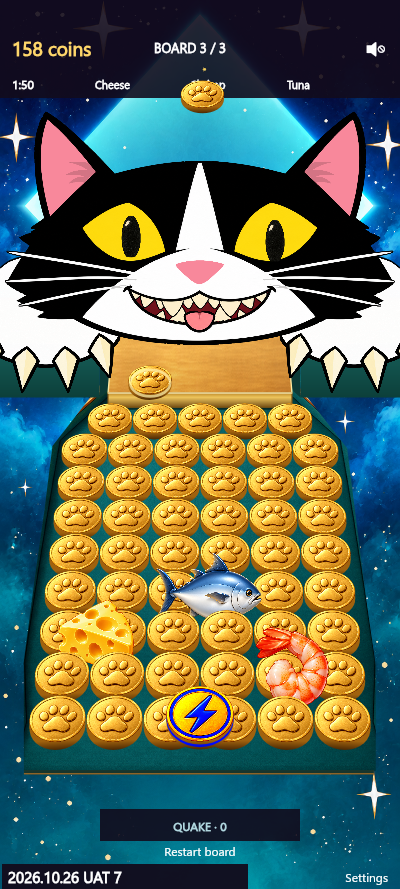
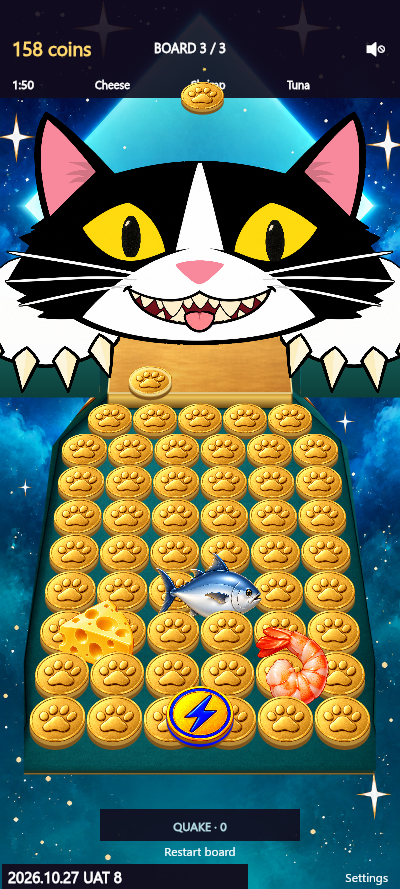
CP-21: UAT 8 - solid coins
Physics coins are now as thick as they are drawn (same weight), so dropped coins push and stack instead of sinking into or passing through other coins. Boards get easier; allowances to be tuned after phone UAT.

diff --git a/index.html b/index.html
@@ -56,7 +56,7 @@ function tableHalfAt(y){const hw=(T.R-T.L)/2;return y<=FUNNEL_D1?FUNNEL_BACK:y>=
 const PUSH_HALF=FUNNEL_BACK, LEDGE_BACK=190;
 let PUSH_MIN = 190, PUSH_MAX = 260, PUSH_PERIOD = 3.2;
 const COIN_R = 26, LUCKY_R = 28, ITEM_R = 30; // big coins: more action per coin, and fewer for the phone to simulate
-const COIN_HALF = 2, LUCKY_HALF = 3.5, ITEM_HALF = 9; // half thicknesses
+const COIN_HALF = 4, LUCKY_HALF = 3.5, ITEM_HALF = 9; // half thicknesses
 // CP-21: coin side colours, bottom to just under the face (silver coins share the gold sides).
 const RIM={coin:[[74,40,4],[160,98,14]]};RIM.silver=RIM.coin; // silver coins use the gold face art, so the gold side too
 function __rimColour(kind,t){const [a,b]=RIM[kind];return 'rgb('+a.map((v,i)=>Math.round(v+(b[i]-v)*t)).join(',')+')';}
@@ -64,7 +64,7 @@ function __rimColour(kind,t){const [a,b]=RIM[kind];return 'rgb('+a.map((v,i)=>Ma
 const QUAKE_THICK = 8, QUAKE_R = 1.2, QUAKE_CONTRAST = 1.8, QUAKE_SATURATE = 1.4;
 // the side's blue band: the face ring's blue after the boost (measured: rgb(0,12,255)), a touch darker at its lowest edge
 const QUAKE_BLUE = ['rgb(0,10,215)','rgb(0,12,255)'];
-const COIN_LOOK = 2; // CP-21: how many times thicker coins are drawn than they are in the physics
+const COIN_LOOK = 1; // CP-21: how many times thicker coins are drawn than they are in the physics
 // Bonus chips: big, thick, coloured, with a scalloped edge and their value (5x, 10x) printed on them.
 const BONUS = { x5: { r: 36, half: 3.5, value: 5 }, x10: { r: 40, half: 4, value: 10 } };
 // Flat and boxy things on the table (half sizes across, up, deep): arcade ticket strips, dollar bills, Rubik's cubes.
@@ -200,7 +200,7 @@ let holding = false, holdPos = aim, taps = [], dropTimer = 0, saveTimer = 0, las
 // test-build readout at the bottom of the screen: physics time per step (ms) and frames per second, smoothed
 const perf = { step: 0, fps: 60 };
 // when this version was published (publish_game.ps1 fills it in), shown in the readout
-const BUILD = '2026.10.26 UAT 7';
+const BUILD = '2026.10.27 UAT 8';
 
 function initPhysics() {
   // the table tilts gently down toward the player (TILT_DEG): coins at rest stay put, but a push moves them
@@ -267,7 +267,7 @@ function addCoin(kind, id, x, h, y, rot, linvel, angvel) {
     .setFriction(kind === 'item' || bx ? TOY_GRIP : COIN_FRICTION).setRestitution(COIN_BOUNCE)
     // Grip between coins supports piles; the lower surface coefficient keeps the shelf and pusher slippery.
     .setFrictionCombineRule(RAPIER.CoefficientCombineRule.Min)
-    .setDensity(bx ? bx.density * 2 : kind === 'item' ? 1.6 : kind === 'power' ? 1 : 3), rb);
+    .setDensity(bx ? bx.density * 2 : kind === 'item' ? 1.6 : kind === 'power' ? 1 : kind === 'coin' || kind === 'silver' ? 1.5 : 3), rb); // CP-21: coins twice as thick, same weight
   // quest: a toy the quest is about; sortK, uid: drawing order (see draw)
   const b = { rb, kind, id: id || null, r, half, dead: false, vy: 0, fresh: false, quest: false, sortK: null, uid: ++uids };
   bodies.push(b);

diff --git a/SPEC.md b/SPEC.md
@@ -1,4 +1,4 @@
-# CP-21 PUBLISHED — 20261026211828 / APK4 (2026.10.26 UAT 7; UAT 6 trial 20261026205627, UAT 5 20261026163104, UAT 4 20261026141443, UAT 3 20261026134357, UAT 2 20261026113204, UAT 1 20261026100613)
+# CP-21 PUBLISHED — 20261027113731 / APK4 (2026.10.27 UAT 8; UAT 7 20261026211828, UAT 6 trial 20261026205627, UAT 5 20261026163104, UAT 4 20261026141443, UAT 3 20261026134357, UAT 2 20261026113204, UAT 1 20261026100613)
 
 Layout lock. The locked numbers are in "Locked layout (CP-21)" below and supersede older board geometry. Source: work/cp21/release.html. Report: tickets/CP-21.md. Phone UAT pending.
 
@@ -132,12 +132,12 @@ Layout first, art second: new art fills this layout and does not change it. Temp
 - **Start:** ordered single layer of straight rows from just past the pusher's furthest reach (first row at 288) to 20 units (START_CLEAR) from the front edge: 9 rows on every board (UAT 7). No towers on any board (Board 3's towers dropped; tower topple physics kept). Prizes and Board 3's Quake coin rest on top of the rows.
 - **Cat:** head drawn at HEAD_Z 0.94 of the screen fit, chin on the table's back edge (CHIN_Y 215). Head art unchanged.
 - **Mitts:** "tucked" pose for Waiting: mitts behind the cheeks, claws hooked 30 units over the inner front corner of each armrest (MITT_HOOK 30, MITT_D 228, MITT_LIFT 30, MITT_W 182), no cuffs or black arms showing. Teal/brass armrests either side of the narrow back (ARM_H 70, ARM_FRONT 240). "Reaching" (mitts out at the corners with arms) is kept as a second pose for later use.
-- **Coins:** approved big-paw face, colour C: contrast 1.3 / saturation 0.9, a lighter, softer gold (UAT 2; UAT 1 was 1.6 / 1.25, too yellow); drawn twice as thick as the physics (COIN_LOOK 2); dark gold sides, bright faces. COIN_R 26 (physics unchanged).
+- **Coins:** approved big-paw face, colour C: contrast 1.3 / saturation 0.9, a lighter, softer gold (UAT 2; UAT 1 was 1.6 / 1.25, too yellow); solid: physics as thick as drawn (UAT 8: COIN_HALF 4, COIN_LOOK 1, density 1.5 so weight is unchanged), so dropped coins push and stack instead of sinking into each other; dark gold sides, bright faces. COIN_R 26 (physics unchanged).
 - **Quake coin:** 20% wider than a paw coin (QUAKE_R 1.2, physics too), same thickness as paw coins, dark gold side with a blue band matching the face's dark blue.
 - **Coins always whole (UAT 3):** coins are only hidden when they slide under the back wall (in front of the ledge's slot everything shows), fall off an edge, or are behind art. The old picture's felt outline no longer masks them.
 - **Side gutters (UAT 3–4, Jenny):** the side wall stays up from where the table reaches full width along the first two full-width rows (depth 315 to 431, UAT 4: the first push used to shove their outer coins far over the edges); from there to the front coins can slide over the left and right edges. The funnel walls beside the ledge stay. A low invisible lip, one coin thick, runs 0.9 coin radius outside each edge, so a coin hangs most of its width over the edge, while coins riding on others can tip off. A coin or prize dropping off a side is lost and doesn't pay. Pure physics without the lip lost over half the coins (0/18 wins). A later tree mode (like Bear Coin) may block the gutters.
 - **Rescue:** a coin squeezed down through the table well inside its edges (about 1 in 1,000 taps) is put back on top of the table instead of vanishing.
-- **Balance (desktop, Oct 26, UAT 7):** 18/18 no-power wins over 3 boards, 3 seeds, 0.22/0.4 s taps. Coins used: Board 1 97–147 of 220, Board 2 90–131 of 160, Board 3 126–147 of 160 (tightest). No prizes went off the sides (tickets/CP-21-evidence/wins-uat7.log).
+- **Balance (desktop, Oct 27, UAT 8):** 18/18 no-power wins over 3 boards, 3 seeds, 0.22/0.4 s taps. Coins used: Board 1 66–91 of 220, Board 2 74–100 of 160, Board 3 75–107 of 160: easier than UAT 7 (97–147, 90–131, 126–147) because solid coins push better; coin allowances can be tuned after phone UAT (tickets/CP-21-evidence/wins-solid-coins-test.log).
 - **Table front (UAT 5):** the front-edge trim (dark line plus thin gold line) is drawn at the real front edge (760). The felt below the old painted front is filled by mirroring the last 50 painted felt rows, so there is no seam or streaking on an empty board. Drawing only.
 - **Pusher and opening (UAT 7, Jenny):** the pusher starts at the chin and only pushes down toward the coins; no gap ever shows between the chin and the pusher. Stroke 190 to 260 (pulled back = the table's back edge, under the chin; was 205 to 275), LEDGE_BACK 190, the plate's top drawn from depth -60 so it runs up under the chin. The opening rows start just past the pusher's reach (first row at 288), so a strip of bare table shows and no start coin moves until dropped coins reach them. 9 rows, START_CLEAR 20 (front row's edge 22 from the front). UAT 6's trial (stroke 135 to 205) is superseded.
 - **Next (art pass, not layout):** rounder cat head or chin fluff to fill the gap between chin and ledge; ledge look; Jenny prefers the Rest face to the Waiting face, so Waiting will change later.

diff --git a/tickets/CP-21.md b/tickets/CP-21.md
@@ -1,6 +1,20 @@
 # CP-21 Board layout like iBear (mockups)
 
-Status: **Published to UAT: 2026.10.26 UAT 7 / APK4, numeric 20261026211828**, on Jenny's "I will try this one … go ahead and add coins underneath the shrimp" (Oct 26). Phone UAT pending. UAT 1–6 are covered below.
+Status: **Published to UAT: 2026.10.27 UAT 8 / APK4, numeric 20261027113731**, on Jenny's "yes" (Oct 27). Phone UAT pending. UAT 1–7 are covered below.
+
+## UAT 8 (Oct 27)
+**Jenny on UAT 7:** "an improvement", but dropped coins go under board coins and sometimes pass through them; they should sit flush and push others out unless landing on top.
+
+**Cause:** physics coins were 4 thick but drawn 8, so resting coins looked sunk in, and thin coins really pushed into each other on fast landings. A stronger solver alone made no difference.
+
+**Change:** physics coins as thick as drawn (COIN_HALF 4, COIN_LOOK 1), density 1.5 so the weight is unchanged. Source `work/cp21/t-thick2.html`. Look, size and art unchanged.
+
+**Validation:**
+- Coin pairs overlapping 10+ frames in 40 s of play: Boards 1–3 18 / 22 / 34 (UAT 7: 214 / 243 / 198) ([before/after](CP-21-evidence/claude-step36-solid-coins.png)). Some fast landings still dip in briefly.
+- 18/18 no-power wins, easier: Board 1 66–91, Board 2 74–100, Board 3 75–107 ([log](CP-21-evidence/wins-solid-coins-test.log)). Allowances can be tuned after phone UAT.
+
+**Publication:** backup `uat/backups/before-CP-21-UAT8-20261027113731`, verified; production JSON/APK and the UAT APK unchanged; fresh OneDrive download matches staged `144b731f…`. UAT 7 records are `*-uat7.json`, source in `work/cp21/uat7/`.
+
 
 ## UAT 7 (Oct 26)
 **Jenny on UAT 6:** wrong. The pusher must start at the chin and only push down toward the coins; it must never move up into the chin or leave a gap between the chin and the pusher. In UAT 5 and 6, blue background showed between the chin and the pusher's top, because the top was only drawn from the back of the table.
